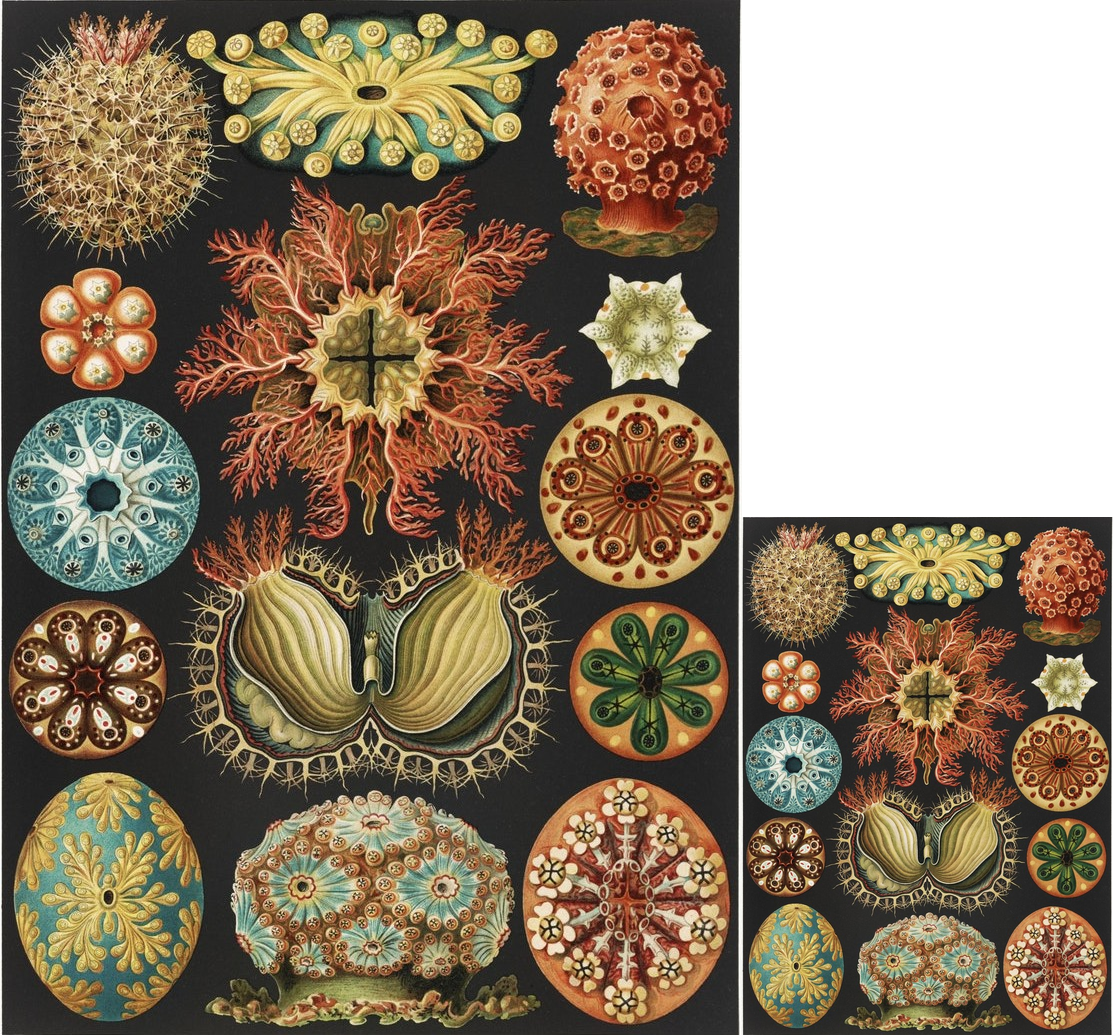
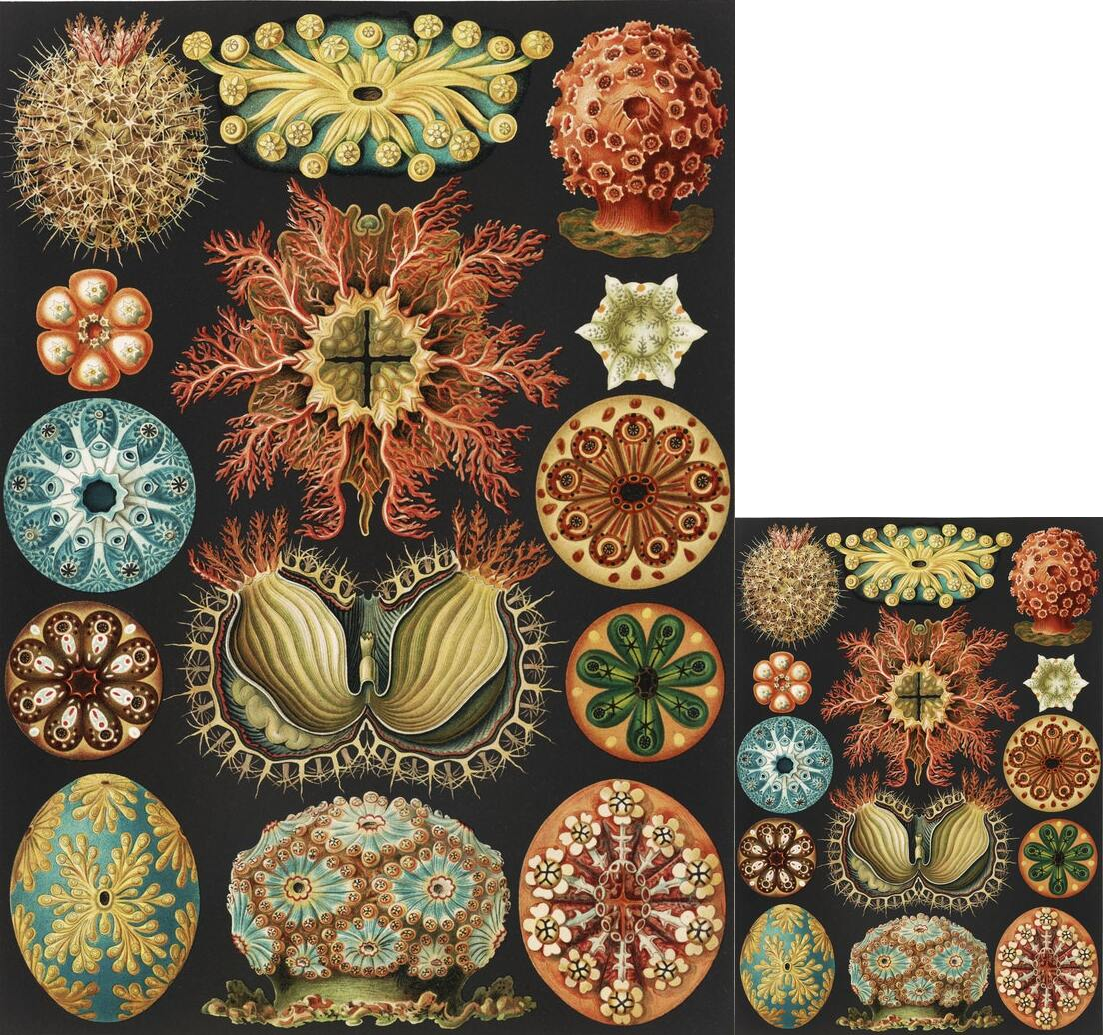
Added to Image Format blog with images etc., but cannot now compile

diff --git a/content/blogs/image-format-conversions/image-format-conversions.md b/content/blogs/image-format-conversions/image-format-conversions.md
@@ -83,7 +83,7 @@ We consider each of these in turn using [platform-neutral](https://itlaw.wikia.o
 Among the very many tools available, we examine below four tools for image format conversion:
 
 #.  [ImageMagick](https://imagemagick.org/index.php)
-    - graphics library
+    - graphics library for image manipulation and display
     - standalone utilities like `convert`, `display`, `identify`, `mogrify`, etc.
     - pixel-based
     - raster to raster conversions
@@ -137,53 +137,139 @@ The non-text image is a colourful, graphically rich image with much detail. It i
 
 ![Non-text, graphically rich image in JPEG format.^[These images are in the public domain and covered by the [CC0 licence](https://creativecommons.org/publicdomain/zero/1.0/). They are available for download [here](https://www.rawpixel.com/image/2266608/free-illustration-image-ernst-haeckel-vintage-animals).]]({attach}images/animals.jpg){#fig:animals width=80%}
 
+This image has a whitish, non-monochromatic border around the block print, containing  annotations. Rather than setting a particular background colour to be transparent, it is more efficient to remove the border altogether by cropping, leaving us with only the illustration.
+
 ## Raster to raster conversions
 
 Before converting from one format to another, we may need to pre-process the image. For example, +@fig:animals has a whitish, non-monochromatic border around the block print, containing  annotations. For our purposes, this border is more of a distraction that is best removed altogether by _cropping_, leaving us with only the illustration.
 convert -crop 735x1036+59+84 animals.jpg animals-cropped.jpg
-### Cropping
-
-Use display. Left click on image.
-Top left and bottom right corners: (59, 84) and (794, 1120).
-`convert -crop 735x1036+59+84 animals.jpg animals-cropped.jpg`
-
-We invoke ImageMagick's `convert` function not only to convert from one format to another but also to accomplish cropping, image-resizing, making the background transparent, and [montaging](https://www.thefreedictionary.com/montage).
-
-### Test image
-
-We use a colourful image with much detail as the test image. *@fig:test is from a hand-drawn illustration of microscopic marine animals by the German naturalist [Ernst Haeckel](https://en.wikipedia.org/wiki/Ernst_Haeckel), scanned and made available in the public domain.
-
-![Vintage animals illustration by Ernst Haeckel.^[These images are in the public domain and covered by the [CC0 licence](https://creativecommons.org/publicdomain/zero/1.0/). They are in the public domain and available for download [here](https://www.rawpixel.com/image/2266608/free-illustration-image-ernst-haeckel-vintage-animals).]]({attach}images/test.jpg){#fig:test width=70%}
-
-This image has a whitish, non-monochromatic border around the block print, containing  annotations. Rather than setting a particular background colour to be transparent, it is more efficient to remove the border altogether by cropping, leaving us with only the illustration.
 
 ### Cropping
 
-Cropping is better done interactively using a [GUI](https://en.wikipedia.org/wiki/Graphical_user_interface), than on the command line. ImageMagick's `display` utility pops up a GUI with a left click when the mouse is over the image. This can be used for interactive cropping. Or we can use any other interactive image viewer that provides a cropping function.
+Cropping is strictly not image format conversion, but is often a necessary pre-processing step in image manipulations. Cropping is better done interactively using a [GUI](https://en.wikipedia.org/wiki/Graphical_user_interface), than on the command line.
+
+ImageMagick's `display` utility pops up a GUI with a left click when the mouse is over the image. We can then drag and fit a window to the _region we wish to keep_, clicking the crop function, and saving the cropped image. The steps are these:
+
+a.  left mouse click on the image to reveal the GUI (see +@fig:gui);
+a.  `Transform -> Crop`;
+a.  put the mouse over the top left corner and drag until the bottom right corner to enclose the region of interest;
+a.  Click again on `Crop`; and
+a.  `File -> Save` with a different name.
+
+![ImageMagick interactive GUI.]({attach}images/ImageMagick-display-gui.png){#fig:gui width=20%}
+
+Alternatively, we may just position the cursor on the top left and bottom right corners of the region we wish to _retain_, noting the co-ordinates in each case. If these coordinates are $(x_t, y_t)$ and $(x_b, y_b)$, respectively, we have $w = x_b - x_t$ and $h = y_b -y_t$. We may then invoke the convert command with crop as the option so:
+
+```
+convert -crop 'wxh+x_t+y_t' animals.jpg animals-cropped.jpg
+```
+
+In our case, $(x_t, y_t) = (60, 84)$ and $(x_b, y_b) = (795, 1119)$ giving $w = 735$ and $h = 1035$, leading to 
+
+```
+convert -crop '735x1035+60+84' animals.jpg animals-cropped.jpg
+```
+The resulting cropped image is shown in +@fig:cropped below.
 
 ![Cropped version of the image in +@fig:test.]({attach}images/test-cropped.jpg){#fig:cropped width=50%}
 
+#### File sizes
+
+The sizes of the original and cropped files are shown below in human friendly numbers:
+
+```{bash}
+ls -sh animals*.jpg | awk '{print $1 "\t" $2}'
+200K    animals-cropped.jpg
+312K    animals.jpg
+```
+As expected, the original file `animals.jpg` is larger than the cropped full-size version, `animals-cropped.jpg` and all is well.
+
 ### Resizing, format-conversion, and montaging
 
-The cropped image is now converted to a PNG at half the dimensions or one quarter the area. The latter is appended to the right of the cropped image, aligned at the bottom, and given a transparent background. The result is shown in +@fig:both.
+We may invoke ImageMagick's `convert` function not only to convert from one format to another but also to accomplish cropping (as we have already seen), image-resizing, making the background transparent, and [montaging](https://www.thefreedictionary.com/montage), etc.
 
+Suppose we want to reduce the dimensions of the cropped image to half their original values, and display the the full-size and half-size images side by side, we could run the following command:
+
+```{bash}
+convert animals-cropped.jpg -resize 50% animals-cropped-halfsize.jpg
+
+convert +append -gravity south animals-cropped.jpg animals-cropped-halfsize.jpg both.jpg
 ```
-convert test-cropped.jpg -resize 50% test-cropped-halfsize.png
-
-convert +append -gravity south -background transparent test-cropped.jpg test-cropped-halfsize.png both.png
-```
-
-![Cropped image on the left and half-sized image on the right.]({attach}images/both.png){#fig:both width=80%}
+![Full-size cropped image on the left and half-sized image on the right.]({attach}images/both.jpg){#fig:both-jpg width=80%}
 
 ### Background transparency
 
-Note that the combined image montage in +@fig:both is in the PNG format, not the original JPEG. The reason for this is that there is rectangular region at the top right that appears transparent, even though it is part of the image montage. A JPEG image _does not_ support such transparency through an [alpha channel](https://www.techopedia.com/definition/1945/alpha-channel). The two popular formats that _do_ are GIF and PNG.
+Notice that there is a coloured white rectangle atop the half-size image on the right in +@fig:both-jpg. We could remove it by rendering the background transparent, but because JPEG does not support transparency, through an [alpha channel](https://www.techopedia.com/definition/1945/alpha-channel), we have to convert the composite image to the PNG format, which does. This is one real-life circumstance necessitating raster to raster format conversion.
+
+```
+convert +append -gravity south -background transparent animals-cropped.jpg animals-cropped-halfsize.jpg both.png
+```
+![Composite image converted to PNG format with transparent background.]({attach}images/both.png){#fig:both-png width=80%}
+
+#### File sizes
+
+How do the file sizes of the two composite images compare? How high a price have we paid for the transparent background?
+
+```
+ls -sh both.* | awk '{print $1 "\t" $2}'
+
+264K    both.jpg
+2.2M    both.png
+```
+And the shocker is clearly shown above. The PNG composite image is _almost eight times larger_ than its JPEG counterpart.
+
+<!--#### Compression levels
+
+The [image compression level](https://en.wikipedia.org/wiki/Image_compression) used above is the default compression level in ImageMagick. Getting the right combination of image dimensions, image compression, and image quality so that the image loads fast and looks good is [quite an art](https://www.smashingmagazine.com/2015/06/efficient-image-resizing-with-imagemagick/). [@newton2015]
+
+To get an idea of the range of file sizes involved, let us try generating a composite image with extremes of the compression level, which can range from 0 to 9.
+
+```
+convert -define PNG:compression-level=0 +append -gravity south -background transparent  animals-cropped.jpg animals-cropped-halfsize.jpg both-compressed-0.png
+
+convert -define PNG:compression-level=9 +append -gravity south -background transparent  animals-cropped.jpg animals-cropped-halfsize.jpg both-compressed-9.png
+```
+
+The file sizes are:
+
+```
+ls -sh both* | awk '{print $1 "\t" $2}'
+
+4.4M    both-compressed-0.png
+2.2M    both-compressed-9.png
+4.4M    both-compressed.png
+264K    both.jpg
+2.2M    both.png
+```
+It appears that the default compression used by ImageMagick gives a file size that is the same as the highest compression level. Indeed, the uncompressed version---with a compression level of zero---gives a file _twice_ the size of the uncompressed version and _sixteen times_ the size of the JPEG. And we have not even used two other attributes: [filter and strategy](https://stackoverflow.com/questions/27267073/imagemagick-lossless-max-compression-for-png) [@setchell2014]. Getting the best tradeoff of image size, file size, loading time, and image quality is still an art to be mastered than an algorithm to be applied.-->
+
+<!--### Results with the text-only image
+
+For completeness, let us do a simple _no quality loss_ conversion from PNG to JPEG for the text-only test image, and compare file sizes.
+
+```
+convert -quality 100 text-only-600-dpi.png text-only-600-dpi.jpg
+
+convert +append text-only-600-dpi.png text-only-600-dpi.jpg text-only-both-600-dpi.png
+
+ls -sh text* | awk '{print $1 "\t" $2}'
+---
+148K    text-only-600-dpi.jpg
+40K     text-only-600-dpi.png
+108K    text-only-both-600-dpi.png
+```
+
+![Composite of the PNG on the left, and JPEG on the right, of the text-only image.]({attach}images/text-only-both-600-dpi.png){#fig:text-only-both width=80%}
+
+*@fig:text-only-both does not reveal any degradation in quality after conversion from PNG to JPEG. Note also that the _composite_ PNG image is smaller than the _single_ JPEG image. We conclude---rather shakily on the basis of one instance---that PNG is better suited for textual images and provides a smaller file size for the same quality. 
 
 ### Can cairo and poppler do all this?
 
-Can such processing be done using cairo or poppler? Not really. The _starting point_ or _input format_ for cairo and poppler is the PDF format. Our test image is scanned from an illustration and is therefore a JPEG raster image. ImageMagick's forte is the processing of raster images; cairo and poppler have other goals.
+Can such processing be done using cairo or poppler? Not really. The _starting point_ or _input format_ for cairo and poppler is the PDF format. Our test image is scanned from an illustration and is therefore a JPEG raster image. ImageMagick's forte is the display, manipulation, and processing of raster images; cairo and poppler have other goals.-->
 
-## Raster to vector conversions
+<!--%%% UP TO HERE %%%-->
+
+<!--## Raster to vector conversions
 
 We might be printing a document on a printer that recognizes and accepts the [PostScript]() or PDF format. Raster photographic images would then need to converted to PDF either beforehand or on the fly before they can be printed on paper. This is one reason why we might need to convert from a raster to a vector image.
 
@@ -327,3 +413,5 @@ corrections.
 
 <!--\noindent A PDF version of this article is [available for download here.]({attach}./image-format-conversions.pdf)-->
 
+
+https://www.smashingmagazine.com/2015/06/efficient-image-resizing-with-imagemagick/-->
